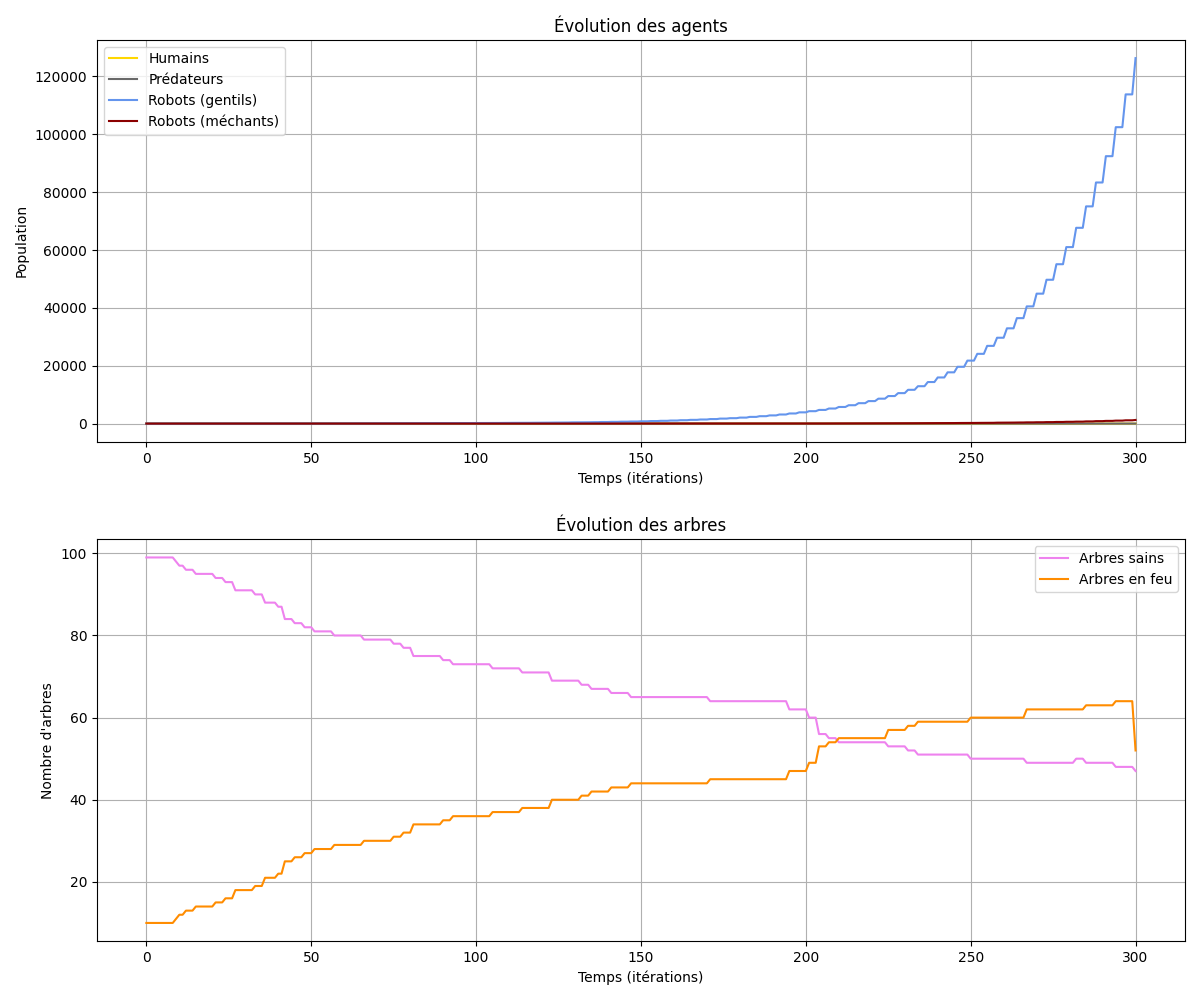
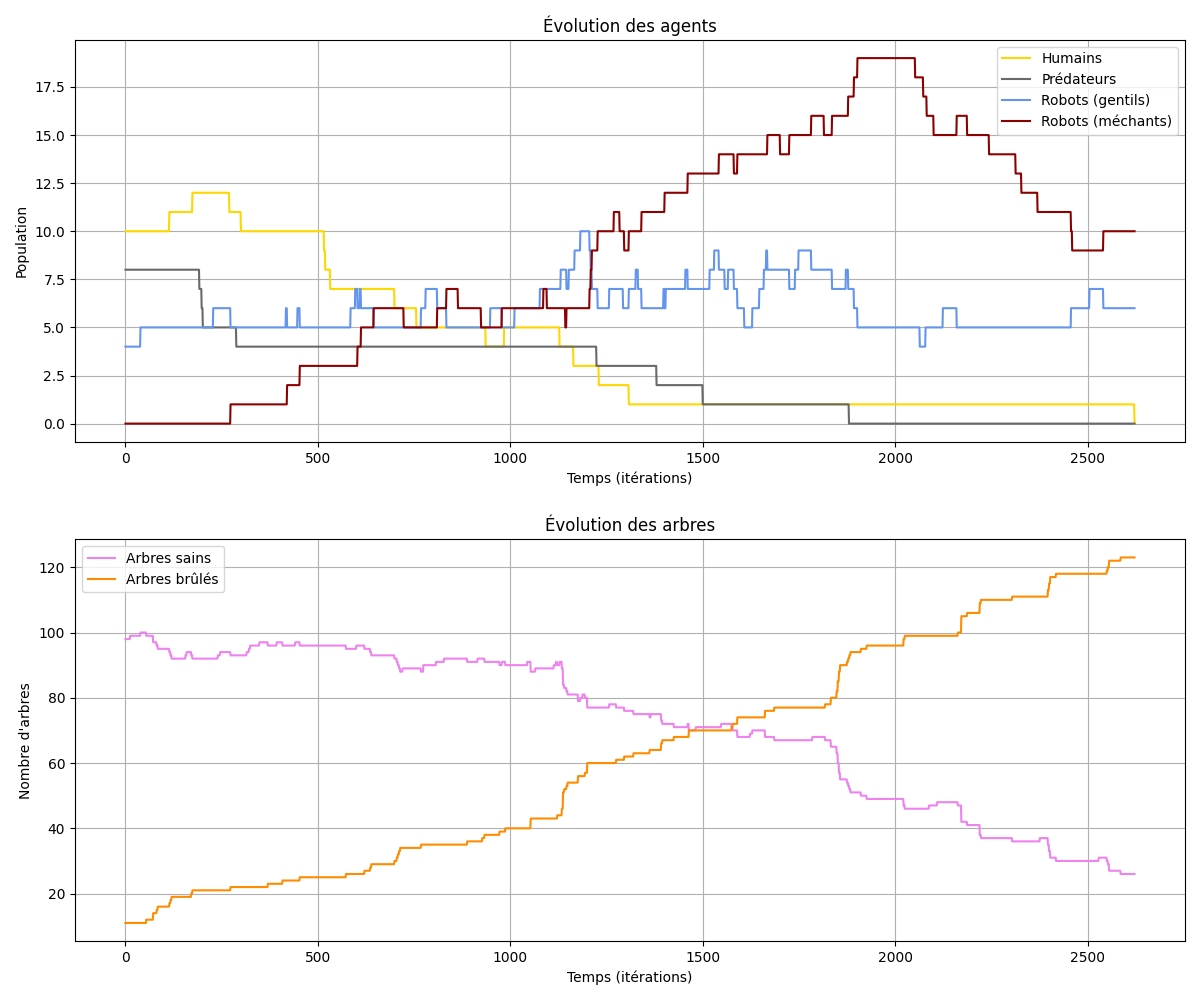
version finale de notre code

diff --git a/isoworld-master/isoworld.py b/isoworld-master/isoworld.py
@@ -54,13 +54,13 @@ versionTag = "2025-04-10_15h06"
 
 # all values are for initialisation. May change during runtime.
 
-global nbTrees, nbBurningTrees, nbPredators, nbRobots, nbHumans, nbEvilRobots, nbBuilding
+global nbTrees, nbBurntTrees, nbPredators, nbRobots, nbHumans, nbEvilRobots, nbBuilding
 
 nbTrees = 100 #350 - 131
-nbBurningTrees = 7 #15 - 7
-nbPredators = 6 #6
+nbBurntTrees = 7 #15 - 7
+nbPredators = 8 #6
 nbRobots = 4 #4
-nbHumans = 7 #7
+nbHumans = 10 #7
 nbEvilRobots = 0
 nbBuilding = 2
 
@@ -110,30 +110,39 @@ maxFps = 30 # set up maximum number of frames-per-second
 verbose = False # display message in console on/off
 verboseFps = True # display FPS every once in a while
 
+#arbres
 burning_trees = {}  # Dictionnaire qui stocke (x, y) -> temps depuis qu'il brûle
 burning_agents= {}
 burning_time = 5 * maxFps  # Durée avant que l'arbre brûlé apparaisse 
 burnt_time = 10 *maxFps
 proba_rep_tree = 0.0005 
-proba_brule = 0.005 #0.0005
-proba_voisin_brule = 0.5 #0.05
+proba_brule = 0.0005 #0.0005
+proba_voisin_brule = 0.05 #0.05
 
+#agents
 proba_evil_brule = 0.05
-proba_turn_evil = 0.001
-proba_rep_hum = 0.001
+proba_turn_evil = 0.01
+proba_agent_brule = 0.7
+proba_rep_hum = 0.003
 proba_rep_pred = 0.001
-proba_fabrication_robots = 0.001
+proba_fabrication_robots = 0.009
 proba_attack_pred = 1
+human_speed = 6      # toutes les 2 frames
+predator_speed = 4   # toutes les 3 frames
+robot_speed = 3      # toutes les 5 frames
 
+
+#earthquake
 proba_earthq = 0.2
 is_earthquake_active = False
 earthquake_end_time = 0
-earthquake_initial_delay = 10 * maxFps  # 40 secondes avant que le tremblement de terre peut etre vrai
+earthquake_initial_delay = 50 * maxFps  # 40 secondes avant que le tremblement de terre peut etre vrai
 earthquake_cooldown = 80 * maxFps     # 80 secondes entre chaque tremblement de terre
 next_earthquake_time = earthquake_initial_delay  # le temps d'attente pour le prochain tremblement de terre
 earthq_time = 30 *maxFps #40
 
-proba_flood_after_earthquake = 1 
+#innondation
+proba_flood_after_earthquake = 0.7 
 flood_active = False
 flood_duration = 30 * maxFps  # la durée de l'inondation
 flood_spread_interval = 10  # Spread every 10 frames
@@ -602,28 +611,50 @@ class Robot:
         """Place le robot devant l'usine"""
         self.x = 5
         self.y = 32
-        #plus besoin de ça parce qu'ils doibent apparaitre tous au mm endroit
-        '''
-        while getTerrainAt(self.x, self.y) != 0 or getObjectAt(self.x, self.y) != 0 or getAgentAt(self.x, self.y) != 0:
-            self.x = randint(0, getWorldWidth() - 1)
-            self.y = randint(0, getWorldHeight() - 1)
-        setAgentAt(self.x, self.y, self.type)
-        '''
         return
 
+    
     def move(self):
-        """Bouge aléatoirement le robot dans le monde dans une des quatre directions."""
+        """Bouge aléatoirement le robot dans le monde dans une des quatre directions,sauf s'il y a un prédateur à côté (alors il va dans cette direction)."""
         xNew, yNew = self.x, self.y
-        if random() < 0.5:
-            xNew = (self.x + [-1, +1][randint(0, 1)] + getWorldWidth()) % getWorldWidth()
-        else:
-            yNew = (self.y + [-1, +1][randint(0, 1)] + getWorldHeight()) % getWorldHeight()
+        prey_near = False
 
-        if getObjectAt(xNew, yNew) == 0 :  # Can only move if no obstacle
+        if self.evil == False :
+            # Vérifie les cases autour pour aller vers un prédateur
+            for neighbours in [(-1,-1), (-1,+1), (+1,0), (0,-1), (-1,0), (+1,-1), (0,+1), (+1,+1)]:
+                nx = (self.x + neighbours[0] + worldWidth) % worldWidth
+                ny = (self.y + neighbours[1] + worldHeight) % worldHeight
+                if getAgentAt(nx, ny) == predatorId:
+                    xNew = (self.x + neighbours[0] + worldWidth) % worldWidth
+                    yNew = (self.y + neighbours[1] + worldHeight) % worldHeight
+                    prey_near = True
+                    break
+        else :
+            # Vérifie les cases autour pour aller vers un prédateur
+            for neighbours in [(-1,-1), (-1,+1), (+1,0), (0,-1), (-1,0), (+1,-1), (0,+1), (+1,+1)]:
+                nx = (self.x + neighbours[0] + worldWidth) % worldWidth
+                ny = (self.y + neighbours[1] + worldHeight) % worldHeight
+                if getAgentAt(nx, ny) == womanId or getAgentAt(nx, ny) == manId :
+                    xNew = (self.x + neighbours[0] + worldWidth) % worldWidth
+                    yNew = (self.y + neighbours[1] + worldHeight) % worldHeight
+                    prey_near = True
+                    break
+
+        # Si aucun prédateur proche, déplacement aléatoire
+        if not prey_near:
+            if random() < 0.5:
+                xNew = (self.x + [-1, +1][randint(0, 1)] + getWorldWidth()) % getWorldWidth()
+            else:
+                yNew = (self.y + [-1, +1][randint(0, 1)] + getWorldHeight()) % getWorldHeight()
+
+        # Déplacement si la case est libre
+        if getObjectAt(xNew, yNew) == 0:
             setAgentAt(self.x, self.y, noAgentId)
             self.x, self.y = xNew, yNew
             setAgentAt(self.x, self.y, self.type)
+
         return
+
 
     def turn_evil(self):
         """Peux de chance de devenir méchant et d'attaquer les humains"""
@@ -670,7 +701,7 @@ class Robot:
         return
 
     def burnt(self,robots) :
-        global nbRobots
+        global nbRobots, nbEvilRobots
         robots.remove(self)
         del burning_agents[(self.x, self.y)]
             #mettre une case sans objet la ou l'humain etait
@@ -698,18 +729,37 @@ class Predator:
         return
 
     def move(self):
-        """Bouge aléatoirement le predateur dans le monde dans une des quatre directions"""
+        """Bouge aléatoirement le predateur dans le monde dans une des quatre directions,
+        sauf s'il y a un humain à côté (alors il va dans cette direction)."""
         xNew, yNew = self.x, self.y
-        if random() < 0.5:
-            xNew = (self.x + [-1, +1][randint(0, 1)] + getWorldWidth()) % getWorldWidth()
-        else:
-            yNew = (self.y + [-1, +1][randint(0, 1)] + getWorldHeight()) % getWorldHeight()
+        pred_near = False
 
-        if getObjectAt(xNew, yNew) == 0:  # Can only move if no obstacle
+        # Vérifie les cases autour pour fuir un prédateur
+        for neighbours in [(-1,-1), (-1,+1), (+1,0), (0,-1), (-1,0), (+1,-1), (0,+1), (+1,+1)]:
+            nx = (self.x + neighbours[0] + worldWidth) % worldWidth
+            ny = (self.y + neighbours[1] + worldHeight) % worldHeight
+            if getAgentAt(nx, ny) == womanId or getAgentAt(nx,ny) == manId:
+                xNew = (self.x + neighbours[0] + worldWidth) % worldWidth
+                yNew = (self.y + neighbours[1] + worldHeight) % worldHeight
+                pred_near = True
+                break
+
+        # Si aucun prédateur proche, déplacement aléatoire
+        if not pred_near:
+            if random() < 0.5:
+                xNew = (self.x + [-1, +1][randint(0, 1)] + getWorldWidth()) % getWorldWidth()
+            else:
+                yNew = (self.y + [-1, +1][randint(0, 1)] + getWorldHeight()) % getWorldHeight()
+
+        # Déplacement si la case est libre
+        if getObjectAt(xNew, yNew) == 0:
             setAgentAt(self.x, self.y, noAgentId)
             self.x, self.y = xNew, yNew
             setAgentAt(self.x, self.y, self.type)
+
         return
+
+
 
     def hunt(self, humans):
         """Tue un humain si sur la même case."""
@@ -749,7 +799,7 @@ class Predator:
 
 
 def initWorld():
-    global nbTrees, nbBurningTrees, predators, humans, robots
+    global nbTrees, nbBurntTrees, predators, humans, robots
 
     # add a pyramid-shape building
     building1TerrainMap = [
@@ -891,7 +941,7 @@ def initWorld():
 
 
     #ajout arbres brules
-    for i in range(nbBurningTrees):
+    for i in range(nbBurntTrees):
         x = randint(0,getWorldWidth()-1)
         y = randint(0,getWorldHeight()-1)
         while getTerrainAt(x,y) != 0 or getObjectAt(x,y) != 0:
@@ -919,7 +969,7 @@ def initAgents():
 
 ### ### ### ### ###
 def stepWorld(it=0):
-    global nbTrees, nbBurningTrees, nbHumans, nbEvilRobots, nbRobots, nbPredators, season_timer
+    global nbTrees, nbBurntTrees, nbHumans, nbEvilRobots, nbRobots, nbPredators, season_timer
     global addNoise, is_earthquake_active, earthquake_end_time, current_season, current_season_index
     global next_earthquake_time, flood_active, flood_duration, next_flood_spread, flood_end_time, last_building_count, building_placed
 
@@ -940,7 +990,7 @@ def stepWorld(it=0):
                             if getObjectAt(nx, ny) == treeId:
                                 setObjectAt(nx, ny, burningTreeId)
                                 burning_trees[(nx, ny)] = it
-                                nbBurningTrees += 1
+                                nbBurntTrees += 1
                                 nbTrees -= 1
                                 trees_burned += 1
 
@@ -1067,7 +1117,7 @@ def stepWorld(it=0):
                         setObjectAt(x, y, burningTreeId)
                         burning_trees[(x, y)] = 0
                         nbTrees -= 1
-                        nbBurningTrees += 1
+                        nbBurntTrees += 1
 
 
 
@@ -1086,19 +1136,19 @@ def stepWorld(it=0):
                         if getObjectAt(nx, ny) == burningTreeId :
                             setObjectAt(x, y, burningTreeId)
                             burning_trees[(x, y)] = it  # Enregistre le moment où il brûle
-                            nbBurningTrees += 1
+                            nbBurntTrees += 1
                             nbTrees-=1
 
                         elif getAgentAt(nx, ny) == evilRobotId and random()< proba_evil_brule:
                             setObjectAt(x, y, burningTreeId)
                             burning_trees[(x, y)] = it
-                            nbBurningTrees +=1
+                            nbBurntTrees +=1
                             nbTrees-=1
 
                     if random() < proba_brule : #arbre brule aléatoirement
                         setObjectAt(x,y,burningTreeId)
                         burning_trees[(x, y)] = it
-                        nbBurningTrees+=1
+                        nbBurntTrees+=1
                         nbTrees-=1
 
                     # Reproduction des arbres
@@ -1122,10 +1172,9 @@ def stepWorld(it=0):
                     if (x, y) in burning_trees and it - burning_trees[(x, y)] >= burnt_time:
                         setObjectAt(x, y, 0)
                         del burning_trees[(x, y)]
-                        nbBurningTrees-=1
 
                 # Les humains brulent
-                elif getAgentAt(x,y) in [playerId, womanId, manId, predatorId, robotId, evilRobotId]:
+                elif getAgentAt(x,y) in [playerId, womanId, manId, predatorId, robotId, evilRobotId] and random() < proba_agent_brule :
 
                     for neighbours in ((-1, 0), (+1, 0), (0, -1), (0, +1)):
                         nx = (x + neighbours[0] + worldWidth) % worldWidth
@@ -1157,13 +1206,10 @@ def stepWorld(it=0):
 def stepAgents( it = 0 ):
     global nbHumans
     # move agent
-    if it % (maxFps/10) == 0:
 
-        shuffle(predators)
+    if it % human_speed == 0:
         shuffle(humans)
-        shuffle(robots)
-
-        for h in humans:   # shuffle agents in in-place (i.e. agents is modified)
+        for h in humans:   
             if getAgentAt(h.x,h.y) != flameId and h.alive : 
                 h.move()
                 h.reproduce(humans)
@@ -1173,7 +1219,8 @@ def stepAgents( it = 0 ):
                 if (h.x, h.y) in burning_agents and (it - burning_agents[(h.x, h.y)] >= burning_time) :
                     h.burnt(humans)
 
-
+    if it % predator_speed == 0:
+        shuffle(predators)
         for p in predators :
             if getAgentAt(p.x, p.y) != flameId and p.alive :
                 p.move()
@@ -1184,6 +1231,8 @@ def stepAgents( it = 0 ):
                 if (p.x, p.y) in burning_agents and (it - burning_agents[(p.x, p.y)] >= burning_time) :
                     p.burnt(predators)
 
+    if it % robot_speed == 0:
+        shuffle(robots)
         for r in robots :
             if (getAgentAt(r.x,r.y)) != flameId and r.alive :
                 r.move()
@@ -1225,7 +1274,7 @@ def afficher_graphe() :
 
         # GRAPHE 2 : Arbres
         ax2.plot(history_trees, label="Arbres sains", color='violet')
-        ax2.plot(history_burning_trees, label="Arbres en feu", color='darkorange')
+        ax2.plot(history_burning_trees, label="Arbres brûlés", color='darkorange')
         ax2.set_title("Évolution des arbres")
         ax2.set_xlabel("Temps (itérations)")
         ax2.set_ylabel("Nombre d'arbres")
@@ -1288,7 +1337,7 @@ while userExit == False:
     history_robots.append(nbRobots)
     history_evil_robots.append(nbEvilRobots)
     history_trees.append(nbTrees)
-    history_burning_trees.append(nbBurningTrees)
+    history_burning_trees.append(nbBurntTrees)
 
 
 #LES TESTS